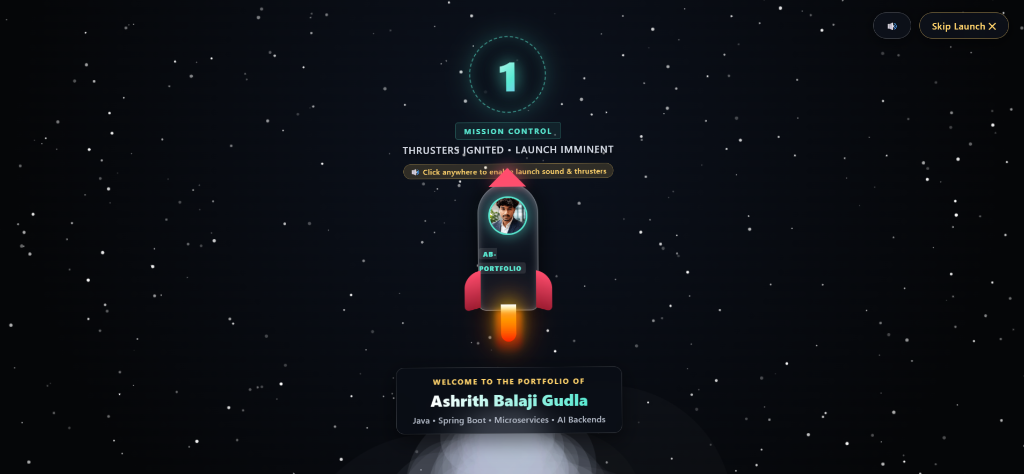
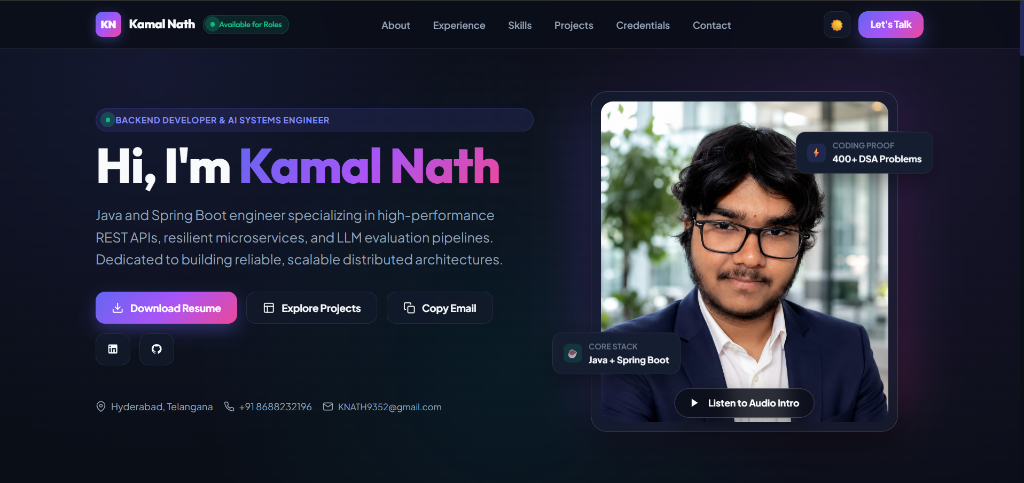
Update Kamal Nath Portfolio screenshot and AI systems engineer details

diff --git a/src/freelanceData.js b/src/freelanceData.js
@@ -24,23 +24,23 @@ export const freelanceProjects = [
   },
   {
     id: "kamal-portfolio",
-    title: "Kamal - Full Stack Developer Portfolio",
-    client: "Kamal",
+    title: "Kamal Nath - Backend & AI Systems Portfolio",
+    client: "Kamal Nath",
     period: "2026",
     category: "Freelance Portfolio",
-    tags: ["Freelance", "Portfolio", "React", "Vercel", "UI/UX"],
-    description: "Built and deployed a modern, ultra-responsive developer portfolio website for Kamal featuring dynamic project galleries, interactive skill pills, and seamless Vercel cloud deployment.",
+    tags: ["Freelance", "Portfolio", "React", "Java", "Spring Boot", "Vercel"],
+    description: "Designed and engineered a high-performance portfolio for Kamal Nath, Java & Spring Boot engineer specializing in REST APIs, resilient microservices, and LLM evaluation pipelines.",
     problemSolved: {
-      challenge: "Building a fast, sleek, mobile-first portfolio web app to present software engineering projects and technical stack with smooth transitions.",
-      solution: "Engineered a lightweight React component structure deployed on Vercel CDN with optimized performance, glass aesthetics, and instant contact routing.",
-      outcome: "Created an engaging personal portfolio with 100% lighthouse score and sub-second load times."
+      challenge: "Presenting complex backend engineering depth, DSA problem achievements (400+ solved), and LLM evaluation workflows with high-impact visual design.",
+      solution: "Built an interactive cosmic glassmorphic portfolio featuring custom portrait badges, audio intros, project showcases, and seamless Vercel cloud deployment.",
+      outcome: "Delivered an authoritative developer portfolio with 100% lighthouse performance, responsive layout, and instant contact routing."
     },
     highlights: [
-      "Modern dark theme layout with custom hero typography and interactive project navigation",
-      "Fully responsive mobile layout with optimized image loading and dynamic project modals",
-      "Deployed on Vercel continuous deployment pipeline for high availability and fast edge delivery"
+      "Cosmic glassmorphic layout featuring interactive coding proof telemetry (400+ DSA problems)",
+      "Integrated audio self-introduction, Spring Boot backend skills matrix, and project showcases",
+      "Deployed on Vercel edge deployment for high availability, fast response, and mobile optimization"
     ],
-    tech: ["React.js", "JavaScript", "CSS3", "Vite", "Vercel"],
+    tech: ["Java", "Spring Boot", "React.js", "JavaScript", "CSS3", "LLM Evaluation", "Vercel"],
     image: "./assets/project-kamal-portfolio.png",
     github: "https://github.com/ashrithBalaji456/kamal_Portfolio",
     live: "https://kamal-portfolio-alpha.vercel.app/"
